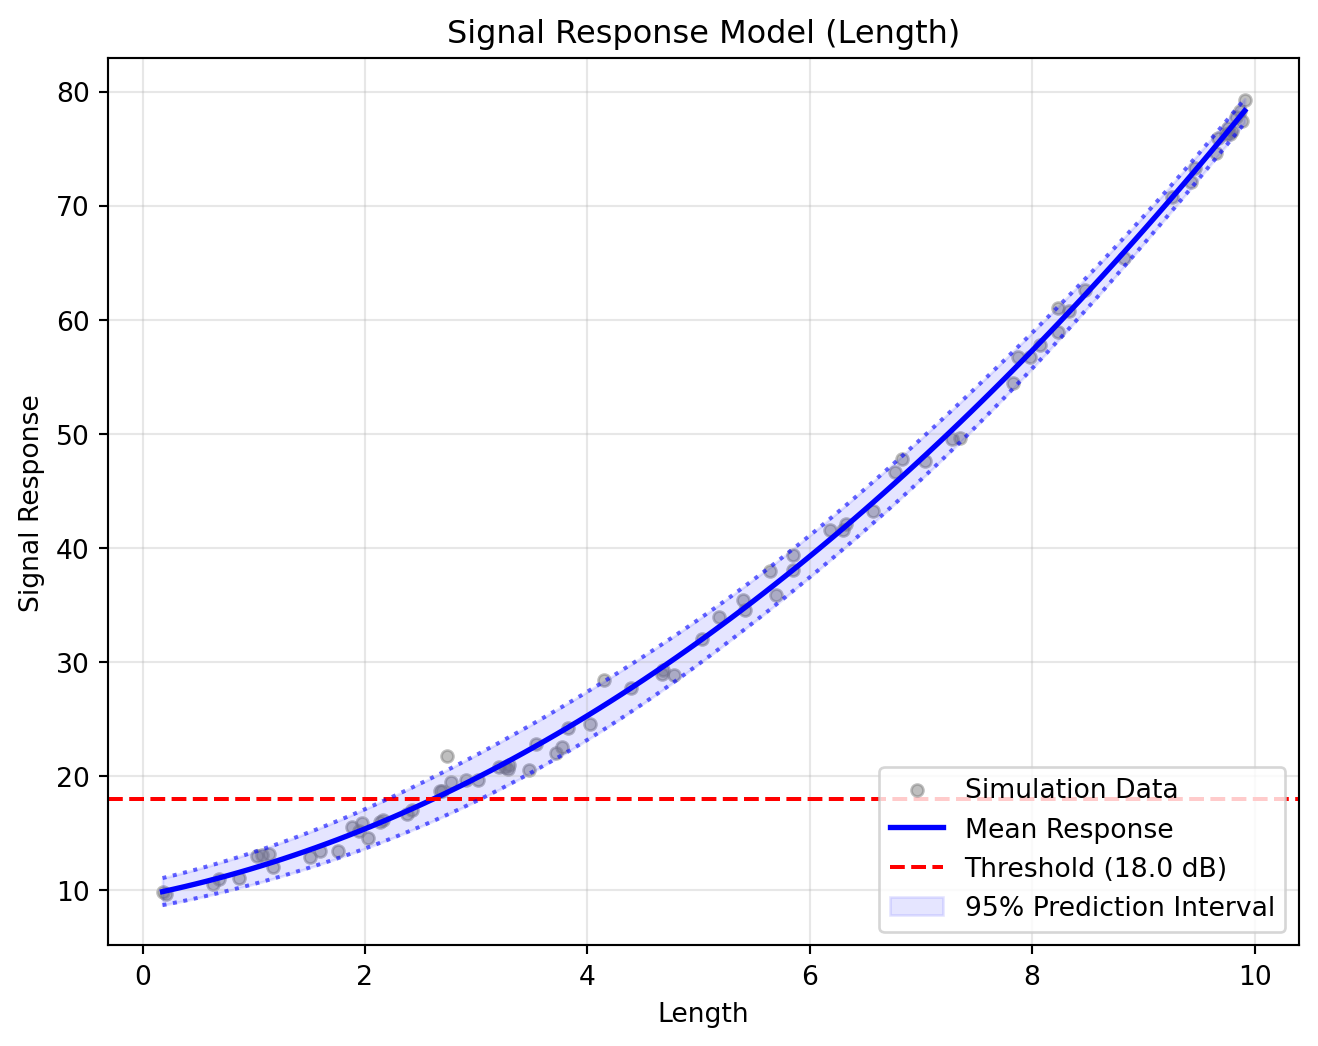
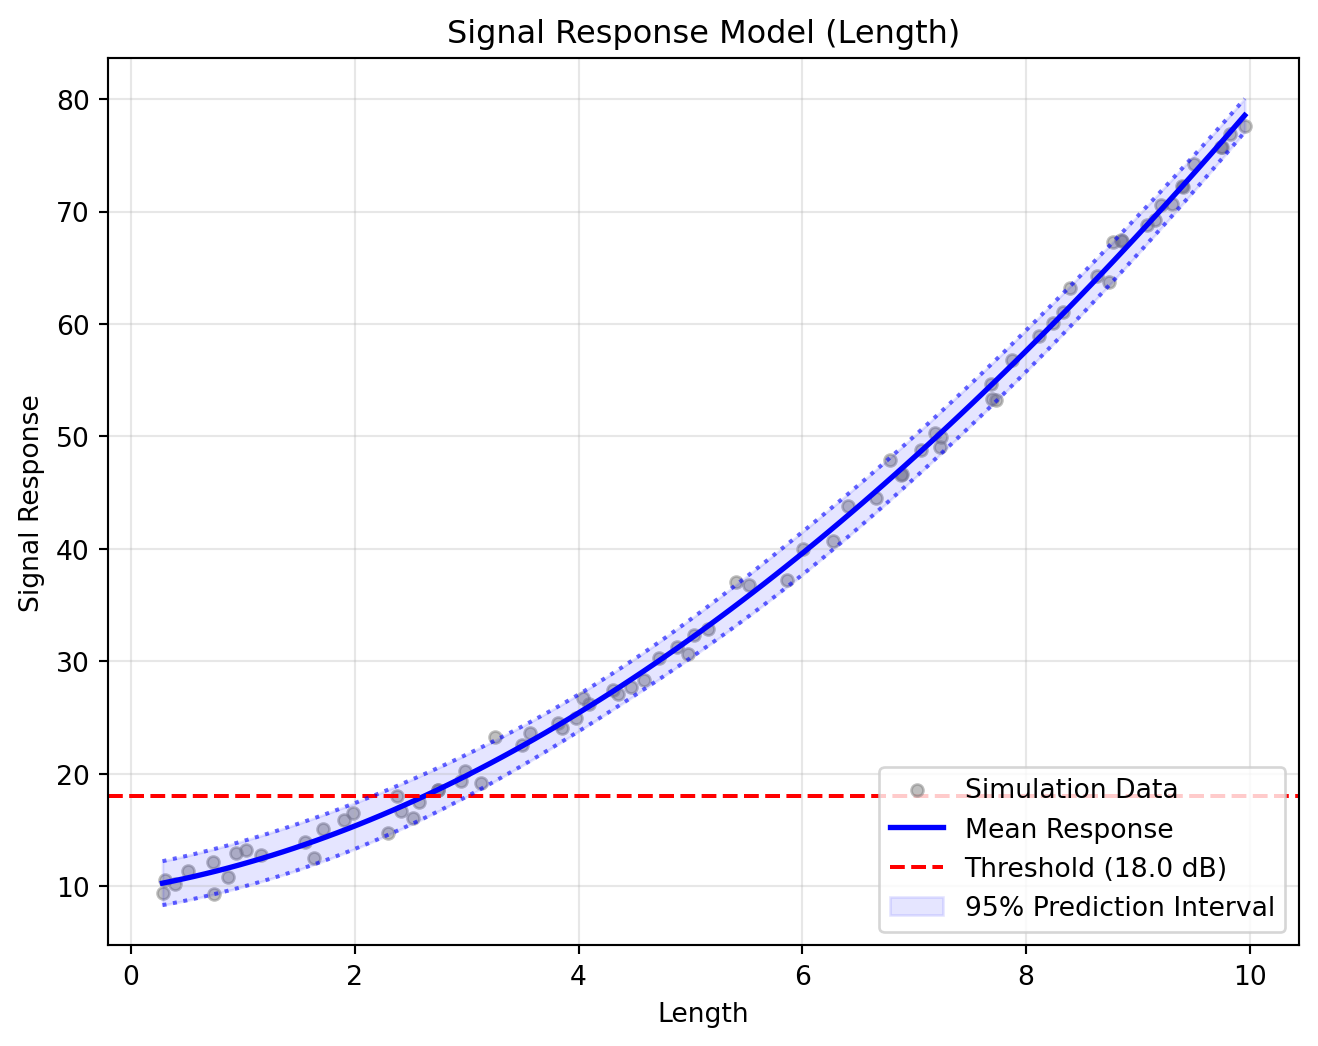
Built site for gh-pages

diff --git a/docs/quick_start_oop.html b/docs/quick_start_oop.html
@@ -433,7 +433,7 @@ pre > code.sourceCode > span > a:first-child::before { text-decoration: underlin
 <section id="setup-flawed-data-generation" class="level3">
 <h3 class="anchored" data-anchor-id="setup-flawed-data-generation">1. Setup &amp; “Flawed” Data Generation</h3>
 <p>First, we define our physics simulation and create a dataset with a deliberate gap (missing data between 3mm and 7mm).</p>
-<div id="5b0de7db" class="cell" data-execution_count="1">
+<div id="e488e701" class="cell" data-execution_count="1">
 <div class="code-copy-outer-scaffold"><div class="sourceCode cell-code" id="cb1"><pre class="sourceCode python code-with-copy"><code class="sourceCode python"><span id="cb1-1"><a href="#cb1-1" aria-hidden="true" tabindex="-1"></a><span class="im">import</span> numpy <span class="im">as</span> np</span>
 <span id="cb1-2"><a href="#cb1-2" aria-hidden="true" tabindex="-1"></a><span class="im">import</span> pandas <span class="im">as</span> pd</span>
 <span id="cb1-3"><a href="#cb1-3" aria-hidden="true" tabindex="-1"></a><span class="im">import</span> digiqual <span class="im">as</span> dq</span>
@@ -483,7 +483,7 @@ pre > code.sourceCode > span > a:first-child::before { text-decoration: underlin
 <section id="diagnosis-detecting-the-issue" class="level3">
 <h3 class="anchored" data-anchor-id="diagnosis-detecting-the-issue">2. Diagnosis (Detecting the Issue)</h3>
 <p>We now ask the study manager to diagnose the health of our experiment. We expect it to flag the Input Coverage test because of the gap we created.</p>
-<div id="307443a5" class="cell" data-execution_count="2">
+<div id="aa82c071" class="cell" data-execution_count="2">
 <div class="code-copy-outer-scaffold"><div class="sourceCode cell-code" id="cb3"><pre class="sourceCode python code-with-copy"><code class="sourceCode python"><span id="cb3-1"><a href="#cb3-1" aria-hidden="true" tabindex="-1"></a>study.diagnose()</span></code></pre></div><button title="Copy to Clipboard" class="code-copy-button"><i class="bi"></i></button></div>
 <div class="cell-output cell-output-stdout">
 <pre><code>Running validation...
@@ -511,7 +511,7 @@ Checking sample sufficiency...</code></pre>
 <td>Input Coverage</td>
 <td>Length</td>
 <td>Max Gap Ratio</td>
-<td>0.4380</td>
+<td>0.4345</td>
 <td>False</td>
 </tr>
 <tr class="even">
@@ -519,7 +519,7 @@ Checking sample sufficiency...</code></pre>
 <td>Input Coverage</td>
 <td>Angle</td>
 <td>Max Gap Ratio</td>
-<td>0.1507</td>
+<td>0.0746</td>
 <td>True</td>
 </tr>
 <tr class="odd">
@@ -527,7 +527,7 @@ Checking sample sufficiency...</code></pre>
 <td>Input Coverage</td>
 <td>Roughness</td>
 <td>Max Gap Ratio</td>
-<td>0.0767</td>
+<td>0.0975</td>
 <td>True</td>
 </tr>
 <tr class="even">
@@ -535,7 +535,7 @@ Checking sample sufficiency...</code></pre>
 <td>Model Fit (CV)</td>
 <td>Signal</td>
 <td>Mean R2 Score</td>
-<td>0.9974</td>
+<td>0.9958</td>
 <td>True</td>
 </tr>
 <tr class="odd">
@@ -543,7 +543,7 @@ Checking sample sufficiency...</code></pre>
 <td>Bootstrap Convergence</td>
 <td>Signal</td>
 <td>Relative CI Width</td>
-<td>0.2114</td>
+<td>0.1035</td>
 <td>False</td>
 </tr>
 </tbody>
@@ -556,7 +556,7 @@ Checking sample sufficiency...</code></pre>
 <section id="adaptive-refinement-the-fix" class="level3">
 <h3 class="anchored" data-anchor-id="adaptive-refinement-the-fix">3. Adaptive Refinement (The Fix)</h3>
 <p>Instead of manually guessing where to add points, we use refine(). The study manager automatically detects the gap and generates targeted samples to fill it.</p>
-<div id="f8e9ffa2" class="cell" data-execution_count="3">
+<div id="1e2c8f09" class="cell" data-execution_count="3">
 <div class="code-copy-outer-scaffold"><div class="sourceCode cell-code" id="cb5"><pre class="sourceCode python code-with-copy"><code class="sourceCode python"><span id="cb5-1"><a href="#cb5-1" aria-hidden="true" tabindex="-1"></a><span class="co"># Generate active learning samples (20 points to fill the gap)</span></span>
 <span id="cb5-2"><a href="#cb5-2" aria-hidden="true" tabindex="-1"></a>new_samples <span class="op">=</span> study.refine(n_points<span class="op">=</span><span class="dv">20</span>)</span>
 <span id="cb5-3"><a href="#cb5-3" aria-hidden="true" tabindex="-1"></a></span>
@@ -586,7 +586,7 @@ Checking sample sufficiency...</code></pre>
 </div>
 </div>
 <p>Now we verify that the issue is resolved:</p>
-<div id="0ce7848d" class="cell" data-execution_count="4">
+<div id="601e1495" class="cell" data-execution_count="4">
 <div class="code-copy-outer-scaffold"><div class="sourceCode cell-code" id="cb8"><pre class="sourceCode python code-with-copy"><code class="sourceCode python"><span id="cb8-1"><a href="#cb8-1" aria-hidden="true" tabindex="-1"></a><span class="co"># Re-run diagnostics to confirm the green light</span></span>
 <span id="cb8-2"><a href="#cb8-2" aria-hidden="true" tabindex="-1"></a>study.diagnose()</span></code></pre></div><button title="Copy to Clipboard" class="code-copy-button"><i class="bi"></i></button></div>
 <div class="cell-output cell-output-stdout">
@@ -615,7 +615,7 @@ Checking sample sufficiency...</code></pre>
 <td>Input Coverage</td>
 <td>Length</td>
 <td>Max Gap Ratio</td>
-<td>0.0491</td>
+<td>0.0454</td>
 <td>True</td>
 </tr>
 <tr class="even">
@@ -623,7 +623,7 @@ Checking sample sufficiency...</code></pre>
 <td>Input Coverage</td>
 <td>Angle</td>
 <td>Max Gap Ratio</td>
-<td>0.0711</td>
+<td>0.0629</td>
 <td>True</td>
 </tr>
 <tr class="odd">
@@ -631,7 +631,7 @@ Checking sample sufficiency...</code></pre>
 <td>Input Coverage</td>
 <td>Roughness</td>
 <td>Max Gap Ratio</td>
-<td>0.0555</td>
+<td>0.0643</td>
 <td>True</td>
 </tr>
 <tr class="even">
@@ -639,7 +639,7 @@ Checking sample sufficiency...</code></pre>
 <td>Model Fit (CV)</td>
 <td>Signal</td>
 <td>Mean R2 Score</td>
-<td>0.9971</td>
+<td>0.9968</td>
 <td>True</td>
 </tr>
 <tr class="odd">
@@ -647,7 +647,7 @@ Checking sample sufficiency...</code></pre>
 <td>Bootstrap Convergence</td>
 <td>Signal</td>
 <td>Relative CI Width</td>
-<td>0.0369</td>
+<td>0.0344</td>
 <td>True</td>
 </tr>
 </tbody>
@@ -667,11 +667,11 @@ Checking sample sufficiency...</code></pre>
 <div class="cell-output cell-output-stdout">
 <pre><code>--- Starting Reliability Analysis (PoI: Length) ---
 1. Selecting Mean Model (Cross-Validation)...
-   -&gt; Selected Polynomial Degree: 2
+   -&gt; Selected Polynomial Degree: 3
 2. Fitting Variance Model (Kernel Smoothing)...
-   -&gt; Smoothing Bandwidth: 0.9732
+   -&gt; Smoothing Bandwidth: 0.9673
 3. Inferring Error Distribution (AIC)...
-   -&gt; Selected Distribution: gumbel_r
+   -&gt; Selected Distribution: norm
 4. Computing PoD Curve...
 5. Running Bootstrap (1000 iterations)...
 --- Analysis Complete ---</code></pre>

diff --git a/docs/quick_start_function.html b/docs/quick_start_function.html
@@ -462,7 +462,7 @@ window.Quarto = {
 <section id="generating-an-experimental-design" class="level3">
 <h3 class="anchored" data-anchor-id="generating-an-experimental-design">Generating an Experimental Design</h3>
 <p>Create a Latin Hypercube design for a simulation study involving defect size (<span class="math inline">\(a\)</span>), angle (<span class="math inline">\(\theta\)</span>) and roughness (<span class="math inline">\(\sigma_{R}\)</span>).</p>
-<div id="016feefc" class="cell" data-execution_count="2">
+<div id="19460ca4" class="cell" data-execution_count="2">
 <div class="code-copy-outer-scaffold"><div class="sourceCode cell-code" id="cb1"><pre class="sourceCode python code-with-copy"><code class="sourceCode python"><span id="cb1-1"><a href="#cb1-1" aria-hidden="true" tabindex="-1"></a><span class="im">import</span> pandas <span class="im">as</span> pd</span>
 <span id="cb1-2"><a href="#cb1-2" aria-hidden="true" tabindex="-1"></a><span class="im">import</span> numpy <span class="im">as</span> np</span>
 <span id="cb1-3"><a href="#cb1-3" aria-hidden="true" tabindex="-1"></a><span class="im">from</span> digiqual.sampling <span class="im">import</span> generate_lhs</span>
@@ -533,7 +533,7 @@ window.Quarto = {
 <section id="validating-simulation-data" class="level3">
 <h3 class="anchored" data-anchor-id="validating-simulation-data">Validating Simulation Data</h3>
 <p>Once you have your simulation results, ensure they are ready for PoD analysis.</p>
-<div id="74df1349" class="cell" data-execution_count="3">
+<div id="12525562" class="cell" data-execution_count="3">
 <div class="code-copy-outer-scaffold"><div class="sourceCode cell-code" id="cb2"><pre class="sourceCode python code-with-copy"><code class="sourceCode python"><span id="cb2-1"><a href="#cb2-1" aria-hidden="true" tabindex="-1"></a><span class="im">from</span> digiqual.diagnostics <span class="im">import</span> validate_simulation</span>
 <span id="cb2-2"><a href="#cb2-2" aria-hidden="true" tabindex="-1"></a></span>
 <span id="cb2-3"><a href="#cb2-3" aria-hidden="true" tabindex="-1"></a><span class="kw">def</span> apply_physics(df):</span>
@@ -559,17 +559,17 @@ window.Quarto = {
 <span id="cb2-23"><a href="#cb2-23" aria-hidden="true" tabindex="-1"></a>display(Markdown(<span class="ss">f"**Valid rows:** </span><span class="sc">{</span><span class="bu">len</span>(df_clean)<span class="sc">}</span><span class="ss">"</span>))</span>
 <span id="cb2-24"><a href="#cb2-24" aria-hidden="true" tabindex="-1"></a>display(Markdown(<span class="ss">f"**Dropped rows:** </span><span class="sc">{</span><span class="bu">len</span>(df_removed)<span class="sc">}</span><span class="ss">"</span>))</span></code></pre></div><button title="Copy to Clipboard" class="code-copy-button"><i class="bi"></i></button></div>
 <div class="cell-output cell-output-display cell-output-markdown">
-<p><strong>Valid rows:</strong> 998</p>
+<p><strong>Valid rows:</strong> 999</p>
 </div>
 <div class="cell-output cell-output-display cell-output-markdown">
-<p><strong>Dropped rows:</strong> 2</p>
+<p><strong>Dropped rows:</strong> 1</p>
 </div>
 </div>
 </section>
 <section id="checking-sample-sufficiency" class="level3">
 <h3 class="anchored" data-anchor-id="checking-sample-sufficiency">Checking Sample Sufficiency</h3>
 <p>We have validated data so now we want to check if we have enough samples to produce an accurate PoD Curve.</p>
-<div id="92086f80" class="cell" data-execution_count="4">
+<div id="a2f680f0" class="cell" data-execution_count="4">
 <div class="code-copy-outer-scaffold"><div class="sourceCode cell-code" id="cb3"><pre class="sourceCode python code-with-copy"><code class="sourceCode python"><span id="cb3-1"><a href="#cb3-1" aria-hidden="true" tabindex="-1"></a><span class="im">from</span> digiqual.diagnostics <span class="im">import</span> sample_sufficiency</span>
 <span id="cb3-2"><a href="#cb3-2" aria-hidden="true" tabindex="-1"></a></span>
 <span id="cb3-3"><a href="#cb3-3" aria-hidden="true" tabindex="-1"></a>ss <span class="op">=</span> sample_sufficiency(</span>
@@ -607,7 +607,7 @@ window.Quarto = {
 <td>Input Coverage</td>
 <td>Angle</td>
 <td>Max Gap Ratio</td>
-<td>0.0024</td>
+<td>0.0020</td>
 <td>True</td>
 </tr>
 <tr class="odd">
@@ -631,7 +631,7 @@ window.Quarto = {
 <td>Bootstrap Convergence</td>
 <td>Signal</td>
 <td>Relative CI Width</td>
-<td>0.0128</td>
+<td>0.0144</td>
 <td>True</td>
 </tr>
 </tbody>
@@ -644,7 +644,7 @@ window.Quarto = {
 <section id="adaptive-refinement-check" class="level3">
 <h3 class="anchored" data-anchor-id="adaptive-refinement-check">Adaptive Refinement Check</h3>
 <p>We now run the targeted sampler. Because <code>generate_lhs</code> provides good coverage by default, we expect the adaptive module to return an empty result, confirming no more work is needed.</p>
-<div id="e5d22b1e" class="cell" data-execution_count="5">
+<div id="1ee5a055" class="cell" data-execution_count="5">
 <div class="code-copy-outer-scaffold"><div class="sourceCode cell-code" id="cb4"><pre class="sourceCode python code-with-copy"><code class="sourceCode python"><span id="cb4-1"><a href="#cb4-1" aria-hidden="true" tabindex="-1"></a><span class="im">from</span> digiqual.adaptive <span class="im">import</span> generate_targeted_samples</span>
 <span id="cb4-2"><a href="#cb4-2" aria-hidden="true" tabindex="-1"></a></span>
 <span id="cb4-3"><a href="#cb4-3" aria-hidden="true" tabindex="-1"></a>new_samples <span class="op">=</span> generate_targeted_samples(</span>
